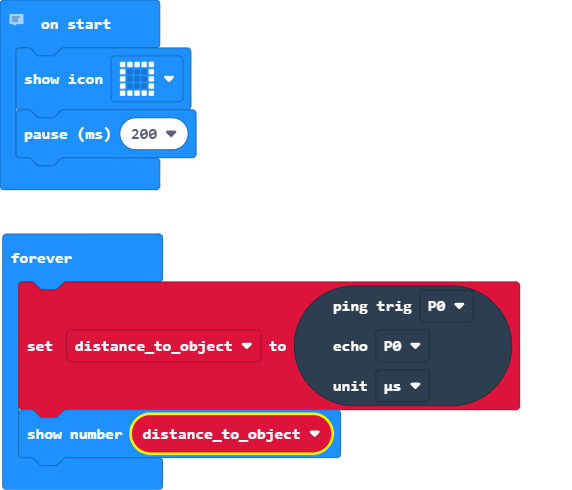
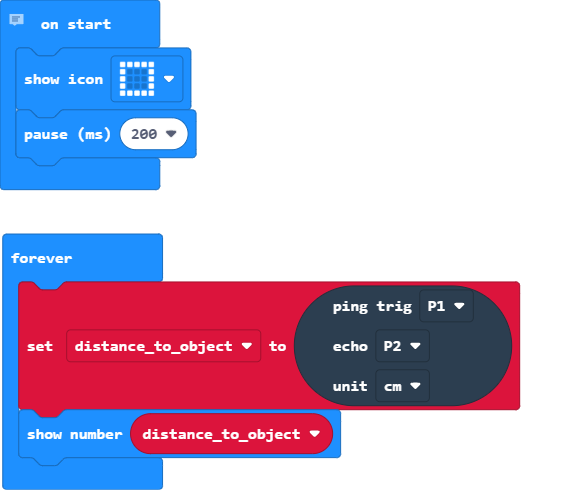
Update main.blocks, main.ts

diff --git a/main.ts b/main.ts
@@ -7,9 +7,9 @@ basic.showIcon(IconNames.Square)
 basic.pause(200)
 basic.forever(function () {
     distance_to_object = sonar.ping(
-    DigitalPin.P0,
-    DigitalPin.P0,
-    PingUnit.MicroSeconds
+    DigitalPin.P1,
+    DigitalPin.P2,
+    PingUnit.Centimeters
     )
     basic.showNumber(distance_to_object)
 })
